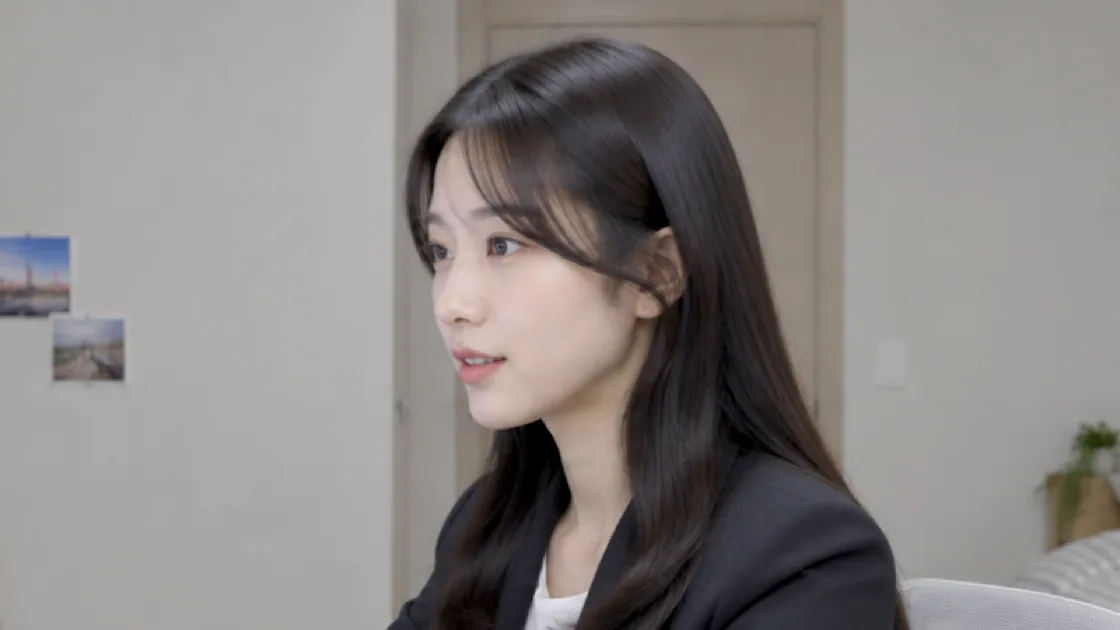
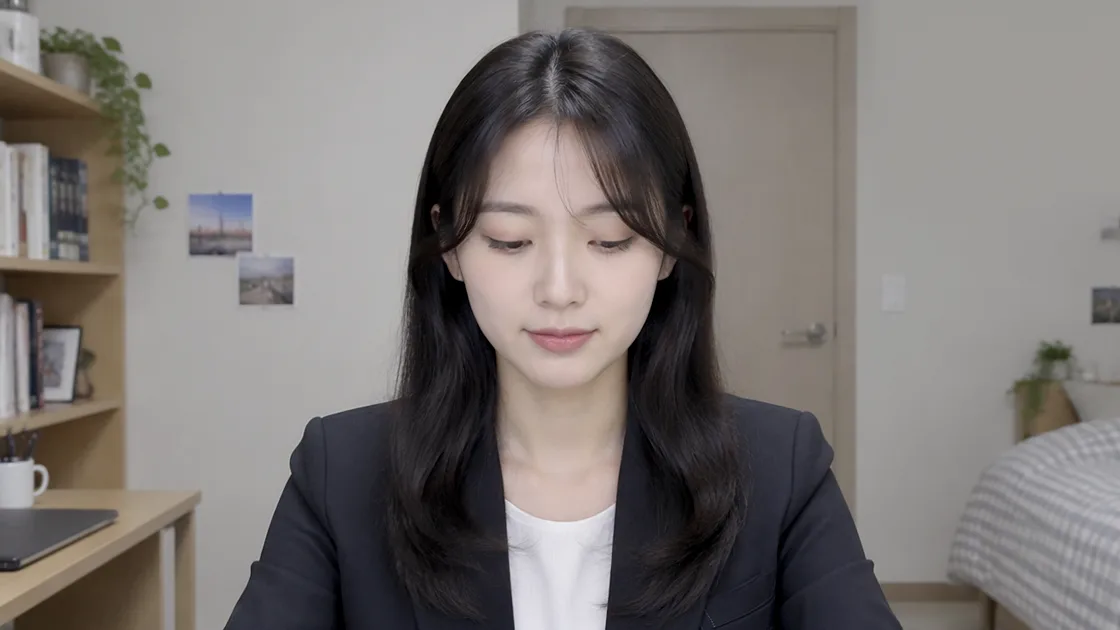
감지 리포트 장면을 정면에서 시선을 아래로 내린 사진으로 — 두 눈 측정 박스·아래로 꺾이는 시선 화살표

diff --git a/components/IntegritySection.tsx b/components/IntegritySection.tsx
@@ -37,8 +37,8 @@ const LIVE_POINTS = [
   "감지된 지원자는 맨 앞으로 — 누르면 크게 보고 AI 감독 리포트로",
 ];
 
-// 탭 3 '감지 리포트' = 벤토(11/26 R3 — 감지 항목 탭과 같은 결). 큰 카드 = 면접 영상의 시선 이탈 장면(목업 '실 측면-2'에서 고개 돌린 얼굴 쪽을 16:9로, 모니터는 빠지게)
-// + 두 눈 측정 박스·시선 방향 화살표·'시선 이탈' 배지 + 타임라인. 작은 카드 3장 = 종류·시각 기록 → 그 장면으로 이동 → 판단은 채용팀이.
+// 탭 3 '감지 리포트' = 벤토(11/26 R3 — 감지 항목 탭과 같은 결). 큰 카드 = 면접 영상의 시선 이탈 장면(사용자가 준 목업 '실 정면-시선 아래로' — 같은 인물이 시선만 아래로 내린 사진, 16:9)
+// + 두 눈 측정 박스·아래로 꺾이는 시선 화살표·'시선 이탈' 배지 + 타임라인. 작은 카드 3장 = 종류·시각 기록 → 그 장면으로 이동 → 판단은 채용팀이.
 // 감지 종류·시각·경고/정보는 예시 값(제품 'AI 감독 리포트'의 전체 감지 내역·심각/경고/정보 구분을 따름). 타임라인 표시 위치는 시각에 맞춘다(03:12/15:00 = 21%, 08:40 = 58%, 12:05 = 80%).
 const EVENTS = [
   { sev: "경고", label: "시선 이탈", t: "03:12" },
@@ -145,7 +145,7 @@ export default function IntegritySection({ withLink = false, soft = true }: { wi
     </>
   );
 
-  // 탭 3 — 감지 리포트 벤토. 영상 위 표시 좌표는 integrity-away.webp(1120×630) 기준: 두 눈 (438, 250)·(505, 245), 시선은 왼쪽으로
+  // 탭 3 — 감지 리포트 벤토. 영상 위 표시 좌표는 integrity-away.webp(1120×630) 기준: 두 눈 (508, 243)·(610, 243), 시선은 아래로
   const report = (
     <div className="ig-live">
       <div className="env-bento ig-bento">
@@ -154,12 +154,12 @@ export default function IntegritySection({ withLink = false, soft = true }: { wi
             <h3>감지 장면을 영상으로</h3>
             <p>감지한 장면은 리포트에 모이고, 채용팀이 면접 영상과 함께 하나씩 확인합니다.</p>
           </div>
-          <div className="ig-face rp-vid" role="img" aria-label="감지 리포트 예시: 면접 영상 3분 12초, 지원자가 고개를 돌려 시선이 화면 밖으로 벗어난 장면에 두 눈 측정 박스와 시선 이탈 표시">
+          <div className="ig-face rp-vid" role="img" aria-label="감지 리포트 예시: 면접 영상 3분 12초, 지원자가 시선을 아래로 내린 장면에 두 눈 측정 박스와 시선 이탈 표시">
             <img src="/integrity-away.webp" alt="" width={1120} height={630} loading="lazy" />
             <svg className="ig-hud rp-hud" viewBox="0 0 1120 630" aria-hidden="true">
-              <rect x="414" y="225" width="120" height="46" rx="8" className="rp-eye" />
-              <path d="M410 248H262" className="rp-arrow" />
-              <path d="M276 238L260 248L276 258" className="rp-head" />
+              <rect x="476" y="221" width="168" height="44" rx="8" className="rp-eye" />
+              <path d="M648 243H760V318" className="rp-arrow" />
+              <path d="M750 304L760 320L770 304" className="rp-head" />
             </svg>
             <span className="rp-tag">시선 이탈 · 03:12</span>
             <span className="ig-cam"><i></i>면접 영상</span>

diff --git a/app/landing.css b/app/landing.css
@@ -950,11 +950,11 @@
   @media (prefers-reduced-motion:reduce){.lv-list li.on{animation:none}}
   @media(max-width:560px){.lv-q{display:none}.lv-body{grid-template-columns:minmax(0,1fr)}.lv-list{border-right:0;border-bottom:1px solid var(--line);grid-template-columns:1fr 1fr}.lv-list li{padding:6px}.lv-st{display:none}}
   /* 감지 리포트 벤토(11/26 R3) — 큰 카드 영상(.rp-vid, .ig-face 틀 재사용) 위 두 눈 측정 박스·시선 방향 화살표·배지, 아래 타임라인(.ir-bar 재사용).
-     배지 좌표는 integrity-away.webp(1120×630) 기준 화살표 끝(260, 248). 박스는 천천히 깜박여 '지금 이 장면'을 짚는다 */
+     배지 좌표는 integrity-away.webp(1120×630) 기준 아래로 꺾인 화살표 끝(760, 320) 바로 밑. 박스는 천천히 깜박여 '지금 이 장면'을 짚는다 */
   .rp-eye{fill:none;stroke:var(--blue);stroke-width:2.5px;vector-effect:non-scaling-stroke;animation:rpBlink 2.4s ease-in-out infinite}
   .rp-arrow{fill:none;stroke:#fff;stroke-width:1.5px;stroke-dasharray:4 4;vector-effect:non-scaling-stroke}
   .rp-head{fill:none;stroke:#fff;stroke-width:1.8px;stroke-linecap:round;stroke-linejoin:round;vector-effect:non-scaling-stroke}
-  .rp-tag{position:absolute;right:77.5%;top:39.37%;transform:translateY(-50%);font-size:12px;font-weight:700;line-height:1;color:#fff;background:var(--blue);border-radius:999px;padding:5px 10px;white-space:nowrap}
+  .rp-tag{position:absolute;left:67.86%;top:52%;transform:translateX(-50%);font-size:12px;font-weight:700;line-height:1;color:#fff;background:var(--blue);border-radius:999px;padding:5px 10px;white-space:nowrap}
   .rp-bar{padding:14px 28px 18px 32px}
   .rp-t{font-size:12px;color:var(--slate);font-variant-numeric:tabular-nums}
   .rp-list{list-style:none;margin:0;padding:14px 14px 14px 16px;align-self:stretch;background:var(--soft);display:grid;align-content:center;gap:8px}

diff --git a/CLAUDE.md b/CLAUDE.md
@@ -26,7 +26,7 @@ Supercoder AI 웹사이트 — **AIVIEW** 제품 랜딩 + 블로그/도입문의
   - `app/privacy`, `app/terms`, `app/terms-applicant` — 법적 페이지(서버). `app/not-found.tsx` — 404.
 - **공유 디자인 토큰·컴포넌트 CSS는 `app/globals.css` (SSOT).** `:root` 변수(`--blue`,`--ink`,`--soft`,`--r`,`--shadow` 등)·버튼(`.btn*`)·`.eyebrow`·GNB(`header`/`nav`)·푸터(`footer`)·모달(`.bro-*`)·챗봇(`.cbot*`)·법적 페이지(`.legal`)가 모두 여기. 루트 `layout.tsx`에서 1회 import. **공유 컴포넌트를 바꿀 땐 `app/globals.css`만 고치면 전 페이지가 함께 바뀐다.**
 - **페이지 고유 CSS는 라우트 폴더에 co-located** (`app/landing.css`, `app/apply/apply.css`, `app/blog/blog.css`, `app/blog/[id]/post.css`, `app/admin/admin.css`). 해당 page에서 import. 클래스는 전역 스코프(원본 정적 사이트와 동일 동작).
-- **공유 컴포넌트(`components/`):** `SiteHeader`(섹션 인지형 GNB·메뉴. '제품▾' 펼침 메뉴 항목은 `PRODUCTS` 배열 하나를 데스크톱·모바일이 함께 쓴다), `SiteFooter`, `Chatbot`(FAQ 챗봇), `HeroParticles`(canvas 입자 모션, 히어로·CTA 공용), `Analytics`·`UtmCapture`·`ViewCounter`. 모두 `layout.tsx`에 마운트되거나 page에서 사용. `"use client"`. 홈·제품 페이지가 같이 쓰는 섹션은 서버 컴포넌트 `PageHero`(홈 전용 다크 히어로, 강조어는 `HeroWord`)·`ProductHero`(제품 상세 페이지 히어로 — 밝은 바탕 + 오른쪽 제품 이미지 `public/hero-*.webp`, 두 제품 모두 밝은 바탕 + 같은 어두운 제품 화면(#181818 계열, 2026-11-25 AI 면접도 AI 역량검사 색으로 맞춤). AI 역량검사는 실제 응시 화면 캡처를 가공한 것, AI 면접은 캡처가 없어 같은 색으로 캡처 배치대로 그린 것(지원자 영상 칸은 사용자가 준 목업 인물 사진, 11/26) — 둘 다 `_docs/홈페이지 개편/도식/캡처가공/make.mjs`. 화면 그림은 `HeroStage`(바탕·점선·레이어 — ProductFlow 썸네일과 공용). `layers`·`lines`를 주면 바탕 위에 투명 레이어를 겹쳐 레이어마다 움직인다 — AI 역량검사는 `public/hero-assessment-*.webp`, AI 면접은 `public/hero-interview-*.webp`(화면·AI 면접관 카드·리포트·칩, 캔버스 600×448 — `size`로 맞춤). 레이어에 `orb`를 주면 그 레이어와 함께 움직이는 오브를 겹친다.)·`LiveOrb`(움직이는 AI 면접관 오브, 클라이언트 — 제품과 같은 `lib/interviewerOrb.js`를 dynamic import해 이미지 속 정지 오브 자리를 바탕색으로 덮고 말하기 모드로 그린다. 원본은 `_docs/홈페이지 개편/AI면접관_orb/`)·`AskDemo`(AI 면접 '면접 진행' 그림 — 히어로 AI 면접관 카드와 같은 모양을 HTML로, 질문 → 꼬리질문 + `LiveOrb`)·`AssistDemo`(AI 역량검사 '과제 화면' 그림 — 히어로 AI 어시스턴트 카드를 HTML로, 지시 → AI 답) — 둘 다 `DemoPanel`(연한 판 + 화면에 들어오면 `.ad-1` → `.ad-2`가 차례로 나타나는 9초 반복 모션)·`StepFlow`(3단계 카드 줄, 단계마다 `img`를 주면 카드 아래에 실제 화면을 꽉 차게 붙인다 — `.pstep.has-shot`)·`TeamSection`(채용팀 기능, 두 제품 공용)·`ClientLogos`(도입사 로고 마퀴)·`ReportRows`(리포트 4종)·`MotionDiagram`(모션 도식 — 이미지가 아니라 페이지에 바로 넣는 SVG, `components/motionDiagrams.ts`. AI 면접 리포트 4종(줄 써짐·원 그래프/막대·육각형 모양 변화·강점·약점 카드 동시 등장)과 AI 역량검사 진행 방식 3장(과정 평가 리플레이·AI 인터뷰 대화·평가와 근거). 다시 뽑기는 `_docs/홈페이지 개편/도식/모션도식_만들기_make-motion.py`, 11/26)·`IntegritySection`(부정행위 감지 — 가운데 제목 + 탭 3개(11/26): '감지 항목' = 벤토(11/26 E안 — AI 역량검사 응시 환경의 `.env-bento`·`.eb-card` 재사용, `.ig-bento`): 왼쪽 큰 카드 '얼굴·시선·안경 검사' = 정면 카메라(`public/integrity-face.webp`, 목업 '실 정면-2'를 16:9로, 얼굴은 모서리 4개·시선은 두 눈을 감싸는 가는 직사각형(`GazeHud` SVG), 배지 3개(얼굴 1명·시선 추적·안경 검사)는 왼쪽 위·오른쪽·아래로 펼쳐 점선으로 연결), 오른쪽 작은 카드 3장(`SHOTS`) = 탭 이탈·보조 모니터(화면 공유 `integrity-screen.webp` — AI 면접 히어로 화면의 창 부분, AI 면접관 카드는 지움)·측면 카메라(`integrity-side.webp`, 목업 '실 측면-2')·손·키보드(`integrity-hands.webp`, 목업 '키보드와 손'). 측면 사진은 모니터 끝만 살짝 걸리게, 손 사진은 모니터가 빠지게 잘랐다. 카드 글이 예전 오른쪽 항목 목록을 대신한다. 4장 배치 시안 A~F는 `_docs/홈페이지 개편/부정행위감지_4장_레이아웃_시안.html` (정면 카메라 표시는 CSS 모션 7초 반복 — 모서리가 얼굴을 잡고 → 두 눈 직사각형 → 점선·배지 차례로) / '실시간 모니터링' = 채용팀 메뉴 '실시간 모니터링'(SC-Platform `/recruiter/home/live-proctoring`)을 HTML로 그린 예시 `.lv`(11/26 M2안 — 왼쪽 진행 중 목록, 'AI 감지' 지원자가 맨 위 / 오른쪽 그 지원자의 화면 공유·정면·측면 카메라를 크게) + 설명. 응시 중 바로 잡히는 건 시선 이탈·여러 얼굴·얼굴 미감지·시험 화면 이탈뿐(약 10초 갱신), 회사별로 켜는 베타라 그렇게 밝힌다 / '감지 리포트' = 벤토(11/26 R3 — 감지 항목 탭과 같은 결): 큰 카드 = 면접 영상의 시선 이탈 장면(`public/integrity-away.webp`, 목업 '실 측면-2'에서 고개 돌린 얼굴 쪽을 16:9로) + 두 눈 측정 박스·시선 방향 화살표·'시선 이탈' 배지 + 타임라인, 작은 카드 3장 = 종류·시각 기록 → 그 장면으로 이동 → 판단은 채용팀이(감지 종류·시각은 예시 값). 레이아웃 시안은 `_docs/홈페이지 개편/감지리포트_레이아웃_시안.html`·`실시간모니터링_레이아웃_시안.html`. 홈은 `withLink`)·`Tabs`(공용 탭 — 알약 탭 줄 `.tt-list`·`.tt-tab` + 패널, 패널 배치는 `panelClass`로. `TypeTabs`·`IntegritySection`이 같이 씀)·`SecuritySection`(좌우 분할 — 왼쪽 제목·ISO 인증 마크, 오른쪽 보안 항목 목록)·`FaqList`(FAQ 목록)·`SoftCta`(중간 안내 한 줄+버튼 — 홈 서비스소개서 안내)·`TypeTabs`(유형 섹션 — 면접 유형·과제 유형을 탭으로 고르기, 11/26. 그림은 `TypeDemo` — 도입 단계 이미지와 같은 결의 창을 HTML로 그려 글이 한 글자씩 써지고 요소가 차례로 나타남(채용공고·이력서는 흰 창, 과제 3종은 실제 응시 화면 색), 좌표는 360×240 기준을 cqw로. 원본 이미지 `public/type-*.webp`는 남겨 둠)·`ProductFlow`(제품 페이지 끝 다른 제품 안내·홈 05 — 함께 쓰는 순서: AI 면접 → AI 역량검사 → 대면 면접 세 단계, 1·2단계 그림은 각 제품 히어로 화면 `HeroStage`, 3단계는 반대로 카드 전체가 어둡고(`.pf-step.dark`, 문제 띠와 같은 남색→블랙) 그림 속 '핵심 후보' 화면은 흰색(`public/f2f-*.webp`, 가상 이름 + 사용자가 준 목업 인물 사진), 카드 사이 흰 원 꺾쇠, 상대 제품 카드에만 버튼, 11/26)·`FinalCta`(마지막 CTA, `points`를 주면 버튼 아래 차별점 띠 — AI 역량검사) — 스타일은 `app/landing.css`. 제품 이름·주소·한 줄 설명은 `lib/products.ts`(GNB·푸터·홈 카드·ProductFlow 공용 — 단계 설명 `when`, 히어로 화면 데이터 `HERO`(바탕·레이어·점선·크기, ProductHero와 ProductFlow 썸네일이 같이 씀)도 여기), ISO 인증 목록은 `lib/certs.ts`(푸터·보안 섹션 공용). 제품 문구의 사실 근거·금지 표현은 `_docs/홈페이지 개편/AI면접_AI역량검사_차이_소개자료.md`. ⚠ `CostCalculator.tsx`는 **어디에도 마운트돼 있지 않다**(미사용). 소개서 리드는 옛 `BrochureModal`이 아니라 `app/brochure/` 라우트가 담당한다.
+- **공유 컴포넌트(`components/`):** `SiteHeader`(섹션 인지형 GNB·메뉴. '제품▾' 펼침 메뉴 항목은 `PRODUCTS` 배열 하나를 데스크톱·모바일이 함께 쓴다), `SiteFooter`, `Chatbot`(FAQ 챗봇), `HeroParticles`(canvas 입자 모션, 히어로·CTA 공용), `Analytics`·`UtmCapture`·`ViewCounter`. 모두 `layout.tsx`에 마운트되거나 page에서 사용. `"use client"`. 홈·제품 페이지가 같이 쓰는 섹션은 서버 컴포넌트 `PageHero`(홈 전용 다크 히어로, 강조어는 `HeroWord`)·`ProductHero`(제품 상세 페이지 히어로 — 밝은 바탕 + 오른쪽 제품 이미지 `public/hero-*.webp`, 두 제품 모두 밝은 바탕 + 같은 어두운 제품 화면(#181818 계열, 2026-11-25 AI 면접도 AI 역량검사 색으로 맞춤). AI 역량검사는 실제 응시 화면 캡처를 가공한 것, AI 면접은 캡처가 없어 같은 색으로 캡처 배치대로 그린 것(지원자 영상 칸은 사용자가 준 목업 인물 사진, 11/26) — 둘 다 `_docs/홈페이지 개편/도식/캡처가공/make.mjs`. 화면 그림은 `HeroStage`(바탕·점선·레이어 — ProductFlow 썸네일과 공용). `layers`·`lines`를 주면 바탕 위에 투명 레이어를 겹쳐 레이어마다 움직인다 — AI 역량검사는 `public/hero-assessment-*.webp`, AI 면접은 `public/hero-interview-*.webp`(화면·AI 면접관 카드·리포트·칩, 캔버스 600×448 — `size`로 맞춤). 레이어에 `orb`를 주면 그 레이어와 함께 움직이는 오브를 겹친다.)·`LiveOrb`(움직이는 AI 면접관 오브, 클라이언트 — 제품과 같은 `lib/interviewerOrb.js`를 dynamic import해 이미지 속 정지 오브 자리를 바탕색으로 덮고 말하기 모드로 그린다. 원본은 `_docs/홈페이지 개편/AI면접관_orb/`)·`AskDemo`(AI 면접 '면접 진행' 그림 — 히어로 AI 면접관 카드와 같은 모양을 HTML로, 질문 → 꼬리질문 + `LiveOrb`)·`AssistDemo`(AI 역량검사 '과제 화면' 그림 — 히어로 AI 어시스턴트 카드를 HTML로, 지시 → AI 답) — 둘 다 `DemoPanel`(연한 판 + 화면에 들어오면 `.ad-1` → `.ad-2`가 차례로 나타나는 9초 반복 모션)·`StepFlow`(3단계 카드 줄, 단계마다 `img`를 주면 카드 아래에 실제 화면을 꽉 차게 붙인다 — `.pstep.has-shot`)·`TeamSection`(채용팀 기능, 두 제품 공용)·`ClientLogos`(도입사 로고 마퀴)·`ReportRows`(리포트 4종)·`MotionDiagram`(모션 도식 — 이미지가 아니라 페이지에 바로 넣는 SVG, `components/motionDiagrams.ts`. AI 면접 리포트 4종(줄 써짐·원 그래프/막대·육각형 모양 변화·강점·약점 카드 동시 등장)과 AI 역량검사 진행 방식 3장(과정 평가 리플레이·AI 인터뷰 대화·평가와 근거). 다시 뽑기는 `_docs/홈페이지 개편/도식/모션도식_만들기_make-motion.py`, 11/26)·`IntegritySection`(부정행위 감지 — 가운데 제목 + 탭 3개(11/26): '감지 항목' = 벤토(11/26 E안 — AI 역량검사 응시 환경의 `.env-bento`·`.eb-card` 재사용, `.ig-bento`): 왼쪽 큰 카드 '얼굴·시선·안경 검사' = 정면 카메라(`public/integrity-face.webp`, 목업 '실 정면-2'를 16:9로, 얼굴은 모서리 4개·시선은 두 눈을 감싸는 가는 직사각형(`GazeHud` SVG), 배지 3개(얼굴 1명·시선 추적·안경 검사)는 왼쪽 위·오른쪽·아래로 펼쳐 점선으로 연결), 오른쪽 작은 카드 3장(`SHOTS`) = 탭 이탈·보조 모니터(화면 공유 `integrity-screen.webp` — AI 면접 히어로 화면의 창 부분, AI 면접관 카드는 지움)·측면 카메라(`integrity-side.webp`, 목업 '실 측면-2')·손·키보드(`integrity-hands.webp`, 목업 '키보드와 손'). 측면 사진은 모니터 끝만 살짝 걸리게, 손 사진은 모니터가 빠지게 잘랐다. 카드 글이 예전 오른쪽 항목 목록을 대신한다. 4장 배치 시안 A~F는 `_docs/홈페이지 개편/부정행위감지_4장_레이아웃_시안.html` (정면 카메라 표시는 CSS 모션 7초 반복 — 모서리가 얼굴을 잡고 → 두 눈 직사각형 → 점선·배지 차례로) / '실시간 모니터링' = 채용팀 메뉴 '실시간 모니터링'(SC-Platform `/recruiter/home/live-proctoring`)을 HTML로 그린 예시 `.lv`(11/26 M2안 — 왼쪽 진행 중 목록, 'AI 감지' 지원자가 맨 위 / 오른쪽 그 지원자의 화면 공유·정면·측면 카메라를 크게) + 설명. 응시 중 바로 잡히는 건 시선 이탈·여러 얼굴·얼굴 미감지·시험 화면 이탈뿐(약 10초 갱신), 회사별로 켜는 베타라 그렇게 밝힌다 / '감지 리포트' = 벤토(11/26 R3 — 감지 항목 탭과 같은 결): 큰 카드 = 면접 영상의 시선 이탈 장면(`public/integrity-away.webp`, 목업 '실 정면-시선 아래로'를 16:9로) + 두 눈 측정 박스·아래로 꺾이는 시선 화살표·'시선 이탈' 배지 + 타임라인, 작은 카드 3장 = 종류·시각 기록 → 그 장면으로 이동 → 판단은 채용팀이(감지 종류·시각은 예시 값). 레이아웃 시안은 `_docs/홈페이지 개편/감지리포트_레이아웃_시안.html`·`실시간모니터링_레이아웃_시안.html`. 홈은 `withLink`)·`Tabs`(공용 탭 — 알약 탭 줄 `.tt-list`·`.tt-tab` + 패널, 패널 배치는 `panelClass`로. `TypeTabs`·`IntegritySection`이 같이 씀)·`SecuritySection`(좌우 분할 — 왼쪽 제목·ISO 인증 마크, 오른쪽 보안 항목 목록)·`FaqList`(FAQ 목록)·`SoftCta`(중간 안내 한 줄+버튼 — 홈 서비스소개서 안내)·`TypeTabs`(유형 섹션 — 면접 유형·과제 유형을 탭으로 고르기, 11/26. 그림은 `TypeDemo` — 도입 단계 이미지와 같은 결의 창을 HTML로 그려 글이 한 글자씩 써지고 요소가 차례로 나타남(채용공고·이력서는 흰 창, 과제 3종은 실제 응시 화면 색), 좌표는 360×240 기준을 cqw로. 원본 이미지 `public/type-*.webp`는 남겨 둠)·`ProductFlow`(제품 페이지 끝 다른 제품 안내·홈 05 — 함께 쓰는 순서: AI 면접 → AI 역량검사 → 대면 면접 세 단계, 1·2단계 그림은 각 제품 히어로 화면 `HeroStage`, 3단계는 반대로 카드 전체가 어둡고(`.pf-step.dark`, 문제 띠와 같은 남색→블랙) 그림 속 '핵심 후보' 화면은 흰색(`public/f2f-*.webp`, 가상 이름 + 사용자가 준 목업 인물 사진), 카드 사이 흰 원 꺾쇠, 상대 제품 카드에만 버튼, 11/26)·`FinalCta`(마지막 CTA, `points`를 주면 버튼 아래 차별점 띠 — AI 역량검사) — 스타일은 `app/landing.css`. 제품 이름·주소·한 줄 설명은 `lib/products.ts`(GNB·푸터·홈 카드·ProductFlow 공용 — 단계 설명 `when`, 히어로 화면 데이터 `HERO`(바탕·레이어·점선·크기, ProductHero와 ProductFlow 썸네일이 같이 씀)도 여기), ISO 인증 목록은 `lib/certs.ts`(푸터·보안 섹션 공용). 제품 문구의 사실 근거·금지 표현은 `_docs/홈페이지 개편/AI면접_AI역량검사_차이_소개자료.md`. ⚠ `CostCalculator.tsx`는 **어디에도 마운트돼 있지 않다**(미사용). 소개서 리드는 옛 `BrochureModal`이 아니라 `app/brochure/` 라우트가 담당한다.
 - **섹션 = 랜딩 구조 (정의된 이름·번호·id).** `app/page.tsx`는 번호 매겨진 섹션 스택이다. 정식 목록(2026-11 개편, 11/26 정리): 01 히어로(`#hero`), 02 도입사(`#clients`), 03 문제(`#flood` — 제품 페이지와 같은 문제(x) → 해결(체크) 카드 `PairGrid light`, 연한 하늘색 바탕, 통계 4개가 문제 줄), 04 역할·깔때기(`#role`, 흰 바탕), 05 해결·제품 2종(`#products` — 카드 위 그림은 `AskDemo`·`AssistDemo`), 06 함께 쓰는 순서(`#flow`, `ProductFlow` — `current` 없이 두 제품 카드 모두 버튼, 3단계 카드에 검사 결과 등급 뱃지), 07 부정행위 감지(`#integrity`), 08 보안(`#security`), 09 성과·후기(`#voices` — 케이스 카드 2장(넥슨·대량 채용 / 디피니트·경력직, `CASES` in `app/page.tsx`, 11/26 후기 말풍선 대체 — 블로그 썸네일(`public/cases/*.webp`) + 회사명 공개 + 카드 전체가 원문 블로그 링크, 근거는 `_docs/홈페이지 개편/케이스스터디_정리.md`) 아래 서비스소개서 안내. 속도·비용 절감 성과 카드는 추산·예시 계산이라 실제 사례 옆에 두지 않으려고 11/26 뺐다), 10 FAQ(`#faq`, 홈만 흰 바탕 `.faq.white`), 11 마지막 CTA(`#final`). 리포트 4종·도입 3단계는 홈에서 뺐다(제품 페이지에만). 배경은 흰색↔연한 블루가 번갈아 오도록 둔다(공용 섹션 틀 `.band`/`.band.soft`). GNB는 섹션 앵커를 쓰지 않는다 — 메뉴는 제품▾(`/ai-interview`·`/ai-assessment`)·블로그·서비스소개서·이벤트(2026-11-24). 부정행위 감지·보안은 메뉴가 아니라 홈·제품 페이지 본문에서 보여준다.
 - **섹션 인지형 GNB:** `[data-nav="dark"]` 섹션(히어로·FINAL) 위에선 헤더 반전(흰 로고). 색 전환 클래스(`header.nav-invert`/`.nav-solid`)는 `globals.css`(SSOT), 감지 로직은 `SiteHeader.tsx`의 `syncHeader`.
 - **폰트·아이콘은 자체 호스팅 서브셋(2026-08-10 성능 최적화):** `layout.tsx`가 `pretendard.css`(woff2 청크만 jsdelivr)와 `fontawesome.css`를 import한다. 아이콘은 `<i className="fa-...">`로 쓰되, **`app/fontawesome.css`에 정의된 아이콘만 쓸 수 있다** — `public/fonts/`의 woff2도 pyftsubset으로 잘라낸 상태라 목록에 없는 이름을 쓰면 버튼은 동작해도 글리프가 렌더되지 않는다(2026-08-21 `fa-flask` 사례). 새 아이콘이 꼭 필요하면 CSS 룰 추가 + 폰트 재서브셋이 함께 필요하다. Supabase는 `@supabase/supabase-js`(npm).
